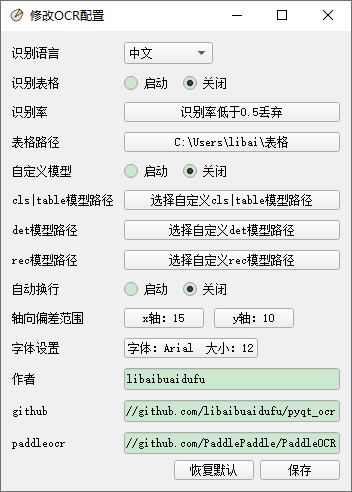
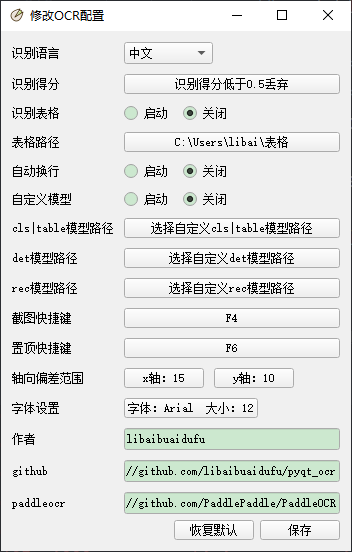
增加置顶以及置顶快捷键 自定义设置 增加截图快捷键 自定义设置

diff --git a/pyqt_ocr.py b/pyqt_ocr.py
@@ -5,6 +5,7 @@ import sys
 import traceback
 from os.path import exists
 
+import keyboard
 from PyQt5.QtCore import Qt, pyqtSignal, QByteArray, QBuffer, QIODevice
 from PyQt5.QtGui import QPainter, QIcon, QPixmap, QPen, QColor, QCursor, QFont
 from PyQt5.QtWidgets import QApplication, QPushButton, QWidget, QVBoxLayout, QTextEdit, QHBoxLayout, QLabel, QLineEdit, \
@@ -154,8 +155,9 @@ class OcrWidget(QWidget):
         self.x_pad_num = 15
         self.y_pad_num = 10
         self.num_box = 0.5
+        self.hot_key_call = None
+        self.is_top = False
         self.config_path = 'config.ini'
-        # self.setWindowFlags(Qt.WindowStaysOnTopHint)
         self.clipboard = QApplication.clipboard()
         self.lang_dict = dict(中文='ch', 英文='en', 法文='french', 德文='german', 韩文='korean', 日文='japan',
                               中文繁体='chinese_cht', 泰卢固文='te', 卡纳达文='ka', 泰米尔文='ta', 拉丁文='latin', 阿拉伯字母='arabic',
@@ -163,6 +165,7 @@ class OcrWidget(QWidget):
         self.read_config()
         self.init_ui()
         self.set_font()
+        self.show()
 
         # https://stackoverflow.com/questions/56949297/how-to-fix-importerror-unable-to-find-qt5core-dll-on-path-after-pyinstaller-b
 
@@ -171,42 +174,25 @@ class OcrWidget(QWidget):
             font = QFont(self.FONT, int(self.FONT_SIZE))
         self.textEdit.setFont(font)
 
+    def set_hot_key(self, key):
+        if self.hot_key_call:
+            keyboard.remove_hotkey(self.hot_key_call)
+        self.hot_key_call = keyboard.add_hotkey(key, self.ocr_btn.click)
+
+    def set_top(self):
+        self.is_top = not self.is_top
+        if self.is_top:
+            self.setWindowTitle("飞桨识别离线版--置顶")
+            self.setWindowFlag(Qt.WindowStaysOnTopHint)
+        else:
+            self.setWindowTitle("飞桨识别离线版")
+            self.setWindowFlag(Qt.Widget)
+        self.show()
+
     def set_push_button(self, name, func):
         btn = QPushButton(name, self)
         btn.clicked[bool].connect(func)
         return btn
-
-    def init_ui(self):
-        # self.setWindowFlags(Qt.WindowStaysOnTopHint)
-        self.setWindowTitle("飞桨识别离线版")
-        self.resize(400, 300)
-        image_path = resource_path("image\logo.ico")
-        self.setWindowIcon(QIcon(image_path))
-
-        hbox = QHBoxLayout()
-        ocr_btn = self.set_push_button('飞桨识别', self.click_btn)
-        ocr_btn.setShortcut('F4')  # 设置快捷键
-        add_text_btn = self.set_push_button('追加文本', self.click_btn_add)
-        add_text_btn.setCheckable(True)
-        btn_list = [
-            ocr_btn,
-            self.set_push_button('图片识别', self.click_btn_file),
-            add_text_btn,
-            self.set_push_button('复制文本', self.click_btn_copy),
-            self.set_push_button('修改配置', self.click_btn_config)
-        ]
-        for btn in btn_list:
-            hbox.addWidget(btn)
-        hbox.addStretch(1)
-        vbox = QVBoxLayout()
-        self.textEdit = QTextEdit(self)
-        self.textEdit.setObjectName("textEdit")
-        vbox.addWidget(self.textEdit)
-        vbox.addLayout(hbox)
-        self.setLayout(vbox)
-        self.oksignal_content.connect(lambda: self.set_text_content())
-        self.oksignal_update_config.connect(lambda: self.read_config())
-        # keyboard.add_hotkey('F5', ocr_btn.click)
 
     def set_text_content(self):
         if isinstance(self.ocr, PPStructure):
@@ -231,6 +217,42 @@ class OcrWidget(QWidget):
             self.click_btn_copy()
         self.textEdit.setText(data)
         self.showNormal()
+
+    def init_ui(self):
+        self.setWindowTitle("飞桨识别离线版")
+        self.resize(400, 300)
+        image_path = resource_path("image\logo.ico")
+        self.setWindowIcon(QIcon(image_path))
+
+        hbox = QHBoxLayout()
+        self.ocr_btn = self.set_push_button('飞桨识别', self.click_btn)
+        # self.ocr_btn.setShortcut('F4')  # 设置快捷键
+        add_text_btn = self.set_push_button('追加文本', self.click_btn_add)
+        add_text_btn.setCheckable(True)
+        self.top_btn = self.set_push_button('置顶', self.set_top)
+        self.top_btn.setShortcut(self.top_key)
+        self.top_btn.hide()
+        btn_list = [
+            self.ocr_btn,
+            self.set_push_button('图片识别', self.click_btn_file),
+            add_text_btn,
+            self.set_push_button('复制文本', self.click_btn_copy),
+            self.top_btn,
+            self.set_push_button('修改配置', self.click_btn_config)
+        ]
+        for btn in btn_list:
+            hbox.addWidget(btn)
+        hbox.addStretch(1)
+        vbox = QVBoxLayout()
+        self.textEdit = QTextEdit(self)
+        self.textEdit.setObjectName("textEdit")
+        vbox.addWidget(self.textEdit)
+        vbox.addLayout(hbox)
+        self.setLayout(vbox)
+        self.oksignal_content.connect(lambda: self.set_text_content())
+        self.oksignal_update_config.connect(lambda: self.read_config())
+
+        self.set_hot_key(self.hot_key)
 
     def click_btn_file(self):
         directory = QFileDialog.getOpenFileNames(self, caption="选取多个文件", directory=BASE_DIR,
@@ -262,7 +284,6 @@ class OcrWidget(QWidget):
     def click_btn(self):
         self.showMinimized()
         self.screenshot = ScreenShotsWin(self.oksignal_content, self)
-        # self.screenshot.setWindowFlags(Qt.WindowStaysOnTopHint)
         self.screenshot.showFullScreen()
 
     def click_btn_add(self):
@@ -300,6 +321,8 @@ class OcrWidget(QWidget):
                 f.write('X_PAD = 15\n')
                 f.write('Y_PAD = 10\n')
                 f.write('NUM_BOX = 0.5\n')
+                f.write('TOP = 关闭\n')
+                f.write('HOT_KEY = F4\n')
 
     def read_config(self):
         if not os.path.isfile(self.config_path):
@@ -317,6 +340,9 @@ class OcrWidget(QWidget):
         det_path = paddleocr['DET_PATH']
         rec_path = paddleocr['REC_PATH']
         warp = paddleocr['WARP']
+        self.top = paddleocr['TOP']
+        self.hot_key = paddleocr['HOT_KEY']
+        self.top_key = paddleocr['TOP_KEY']
         self.structure_path = paddleocr['STRUCTURE_PATH']
         self.FONT = paddleocr['FONT']
         self.FONT_SIZE = paddleocr["FONT_SIZE"]
@@ -336,6 +362,7 @@ class OcrWidget(QWidget):
         self.x_pad_num = paddleocr['X_PAD']
         self.y_pad_num = paddleocr['Y_PAD']
         self.num_box = paddleocr['NUM_BOX']
+
         if self.use_model:
             self.ocr = init_paddleocr(lang=self.lang_dict.get(lang, 'ch'), is_table=self.is_table,
                                       cls_model_dir=cls_path,
@@ -350,11 +377,15 @@ class UpdateConfig(QWidget):
 
     def __init__(self, oksignal_update_config, OcrWidget):
         super().__init__()
+        self.setWindowModality(Qt.ApplicationModal)
         self.oksignal_update_config = oksignal_update_config
         self.setWindowFlags(Qt.WindowStaysOnTopHint)
         self.OcrWidget = OcrWidget
 
         self.font = ''
+        self.set_hot_key = False
+        self.set_top_key = False
+        self.event_key = None
 
         self.config = configparser.ConfigParser()
         self.config_path = 'config.ini'
@@ -364,6 +395,8 @@ class UpdateConfig(QWidget):
         self.config_warp = self.paddleocr.get('WARP', '关闭')
         self.config_custom_model = self.paddleocr.get('USE_MODEL', '关闭')
         self.config_table = self.paddleocr.get('TABLE', '关闭')
+        self.config_hot_key = self.paddleocr.get("HOT_KEY", 'F4')
+        self.config_top_key = self.paddleocr.get("TOP_KEY", 'F5')
         self.cls_path = self.paddleocr.get('CLS_PATH')
         self.det_path = self.paddleocr.get('DET_PATH')
         self.rec_path = self.paddleocr.get('REC_PATH')
@@ -374,7 +407,7 @@ class UpdateConfig(QWidget):
 
         image_path = resource_path("image\logo.ico")
         self.setWindowIcon(QIcon(image_path))
-        self.lang_box, self.auto_warp_group, self.font_btn, self.cls_file_btn, self.det_file_btn, self.rec_file_btn, self.x_btn, self.y_btn, self.use_custom_model_group, self.structure_file_btn, self.table_group, self.num_box_btn = self.init_ui()
+        self.lang_box, self.auto_warp_group, self.font_btn, self.cls_file_btn, self.det_file_btn, self.rec_file_btn, self.x_btn, self.y_btn, self.use_custom_model_group, self.structure_file_btn, self.table_group, self.num_box_btn, self.hot_key_btn, self.top_key_btn = self.init_ui()
 
     def set_push_button(self, name, func):
         btn = QPushButton(name, self)
@@ -394,10 +427,20 @@ class UpdateConfig(QWidget):
                 self.y_pad_num = str(text)
                 self.y_btn.setText(f"y轴：{self.y_pad_num}")
         elif sender == self.num_box_btn:
-            text, ok = QInputDialog.getDouble(self, '修改识别得分', '请输入保留大于多少的识别得分（0-1）：', value=float(self.num_box), min=0, max=1)
+            text, ok = QInputDialog.getDouble(self, '修改识别得分', '请输入保留大于多少的识别得分（0-1）：', value=float(self.num_box), min=0,
+                                              max=1)
             if ok:
                 self.num_box = str(text)
                 self.num_box_btn.setText(f'识别得分低于{self.num_box}丢弃')
+        elif sender == self.hot_key_btn:
+            # todo:通过按键检测直接设置快捷键，可以实现但是对应按键太多，太麻烦了
+            self.set_hot_key = True
+            # text, ok = QInputDialog.getText(self, '修改快捷键', '请输入快捷键：', text=self.config_hot_key)
+            # if ok:
+            #     self.config_hot_key = str(text)
+            #     self.hot_key_btn.setText(f'{self.config_hot_key}')
+        elif sender == self.top_key_btn:
+            self.set_top_key = True
 
     def init_ui(self):
         try:
@@ -432,8 +475,26 @@ class UpdateConfig(QWidget):
                 group_table_no.click()
             table_group.buttonClicked.connect(self.rbclicked)
 
+            # top = QLabel('置顶')
+            # top_group = QButtonGroup(self)
+            # group_top_yes = QRadioButton('启动', self)
+            # group_top_no = QRadioButton('关闭', self)
+            # top_group.addButton(group_top_yes, 1)
+            # top_group.addButton(group_top_no, 0)
+            # if self.config_top == "启动":
+            #     group_top_yes.click()
+            # else:
+            #     group_top_no.click()
+            # top_group.buttonClicked.connect(self.rbclicked)
+
             num_box = QLabel("识别得分")
             num_box_btn = self.set_push_button(f'识别得分低于{self.num_box}丢弃', self.click_btn_x_or_y)
+
+            hot_key_label = QLabel("截图快捷键")
+            hot_key_btn = self.set_push_button(f'{self.config_hot_key}', self.click_btn_x_or_y)
+
+            top_key_label = QLabel("置顶快捷键")
+            top_key_btn = self.set_push_button(f'{self.config_top_key}', self.click_btn_x_or_y)
 
             structure = QLabel('表格路径')
             structure_file_btn = self.set_push_button(self.structure_path or '选择表格识别文件保存路径',
@@ -494,6 +555,11 @@ class UpdateConfig(QWidget):
             hbox_font.addWidget(font_btn)
             hbox_font.addStretch(1)
 
+            # hbox_top = QHBoxLayout()
+            # hbox_top.addWidget(group_top_yes)
+            # hbox_top.addWidget(group_top_no)
+            # hbox_top.addStretch(1)
+
             hbox_table = QHBoxLayout()
             hbox_table.addWidget(group_table_yes)
             hbox_table.addWidget(group_table_no)
@@ -521,11 +587,14 @@ class UpdateConfig(QWidget):
                 num_box: num_box_btn,
                 table: hbox_table,
                 structure: structure_file_btn,
+                auto_warp: hbox_warp,
+                # top: hbox_top,
                 use_custom_model: hbox_model,
                 cls: cls_file_btn,
                 det: det_file_btn,
                 rec: rec_file_btn,
-                auto_warp: hbox_warp,
+                hot_key_label: hot_key_btn,
+                top_key_label: top_key_btn,
                 xy_pad: hbox_xy_pad,
                 font_size: hbox_font,
                 author: author_edit,
@@ -555,27 +624,35 @@ class UpdateConfig(QWidget):
 
             self.setGeometry(300, 300, 350, 300)
             self.setWindowTitle('修改OCR配置')
-            return lang_box, auto_warp_group, font_btn, cls_file_btn, det_file_btn, rec_file_btn, x_btn, y_btn, use_custom_model_group, structure_file_btn, table_group, num_box_btn
+            return lang_box, auto_warp_group, font_btn, cls_file_btn, det_file_btn, rec_file_btn, x_btn, y_btn, use_custom_model_group, structure_file_btn, table_group, num_box_btn, hot_key_btn, top_key_btn
         except:
             traceback.print_exc()
 
     def rbclicked(self):
-        sender = self.sender()
-        if sender == self.auto_warp_group:
-            if self.auto_warp_group.checkedId() == 1:
-                self.config_warp = '启动'
-            else:
-                self.config_warp = '关闭'
-        elif sender == self.use_custom_model_group:
-            if self.use_custom_model_group.checkedId() == 1:
-                self.config_custom_model = '启动'
-            else:
-                self.config_custom_model = '关闭'
-        elif sender == self.table_group:
-            if self.table_group.checkedId() == 1:
-                self.config_table = '启动'
-            else:
-                self.config_table = '关闭'
+        try:
+            sender = self.sender()
+            if sender == self.auto_warp_group:
+                if self.auto_warp_group.checkedId() == 1:
+                    self.config_warp = '启动'
+                else:
+                    self.config_warp = '关闭'
+            elif sender == self.use_custom_model_group:
+                if self.use_custom_model_group.checkedId() == 1:
+                    self.config_custom_model = '启动'
+                else:
+                    self.config_custom_model = '关闭'
+            elif sender == self.table_group:
+                if self.table_group.checkedId() == 1:
+                    self.config_table = '启动'
+                else:
+                    self.config_table = '关闭'
+            elif sender == self.top_group:
+                if self.top_group.checkedId() == 1:
+                    self.config_top = '启动'
+                else:
+                    self.config_top = '关闭'
+        except:
+            traceback.print_exc()
 
     def btn_structure_choose_file(self):
         structure_path = QFileDialog.getExistingDirectory(None, "选取文件夹",
@@ -602,6 +679,27 @@ class UpdateConfig(QWidget):
             self.rec_path = rec_path
             self.rec_file_btn.setText(self.rec_path)
 
+    # 检测键盘回车按键
+    def keyPressEvent(self, event):
+        press_dict = {65: 'a', 66: 'b', 67: 'c', 68: 'd', 69: 'e', 70: 'f', 71: 'g', 72: 'h', 73: 'i', 74: 'j', 75: 'k',
+                      76: 'l', 77: 'm', 78: 'n', 79: 'o', 80: 'p', 81: 'q', 82: 'r', 83: 's', 84: 't', 85: 'u', 86: 'v',
+                      87: 'w', 88: 'x', 89: 'y', 90: 'z', 48: '0', 49: '1', 50: '2', 51: '3', 52: '4', 53: '5', 54: '6',
+                      55: '7', 56: '8', 57: '9', 16777264: 'F1', 16777265: 'F2', 16777266: 'F3', 16777267: 'F4',
+                      16777268: 'F5', 16777269: 'F6', 16777270: 'F7', 16777271: 'F8', 16777272: 'F9', 16777273: 'F10',
+                      16777274: 'F11', 16777275: 'F12'}
+        try:
+            if self.set_hot_key:
+                self.event_key = press_dict[event.key()]
+                self.hot_key_btn.setText(self.event_key)
+                self.config_hot_key = self.event_key
+
+            elif self.set_top_key:
+                self.event_key = press_dict[event.key()]
+                self.top_key_btn.setText(self.event_key)
+                self.config_top_key = self.event_key
+        except:
+            traceback.print_exc()
+
     def click_btn_font(self):
         font_name = self.paddleocr.get('FONT')
         font_size = self.paddleocr.get('FONT_SIZE')
@@ -625,6 +723,11 @@ class UpdateConfig(QWidget):
                 self.config.set("paddleocr", "FONT", str(self.font.family()))
                 self.config.set("paddleocr", "FONT_SIZE", str(self.font.pointSize()))
                 self.OcrWidget.set_font(self.font)
+            self.config.set("paddleocr", "HOT_KEY", self.config_hot_key)
+            self.OcrWidget.set_hot_key(self.config_hot_key)
+            self.config.set("paddleocr", "TOP_KEY", self.config_top_key)
+            # self.OcrWidget.set_top_key(self.config_top_key)
+            self.OcrWidget.top_btn.setShortcut(self.config_top_key)
             self.config.set("paddleocr", "WARP", self.config_warp)
             self.config.set("paddleocr", "NUM_BOX", self.num_box)
             self.config.set("paddleocr", "X_PAD", self.x_pad_num)
@@ -648,5 +751,4 @@ if __name__ == '__main__':
     app = QApplication(sys.argv)
     app.setStyle('Fusion')  # 修改样式
     dbb = OcrWidget()
-    dbb.show()
     sys.exit(app.exec_())
